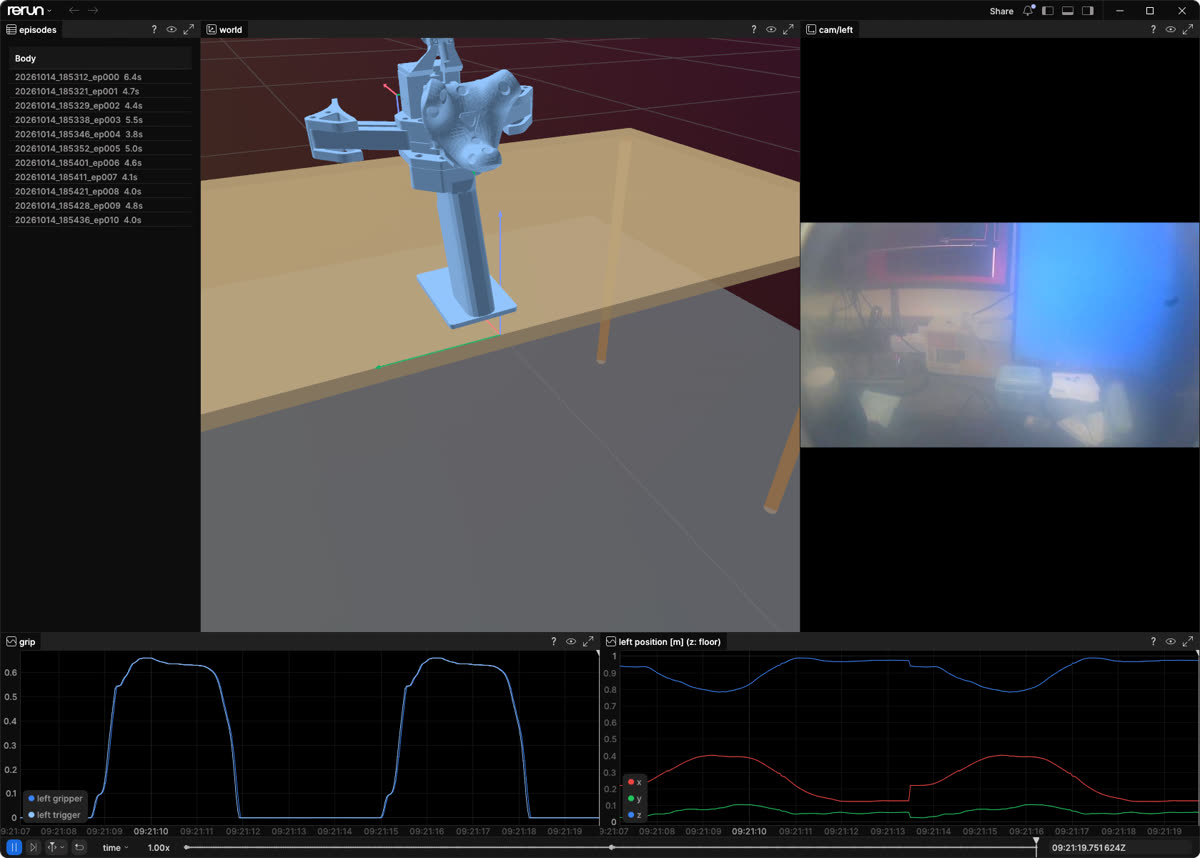
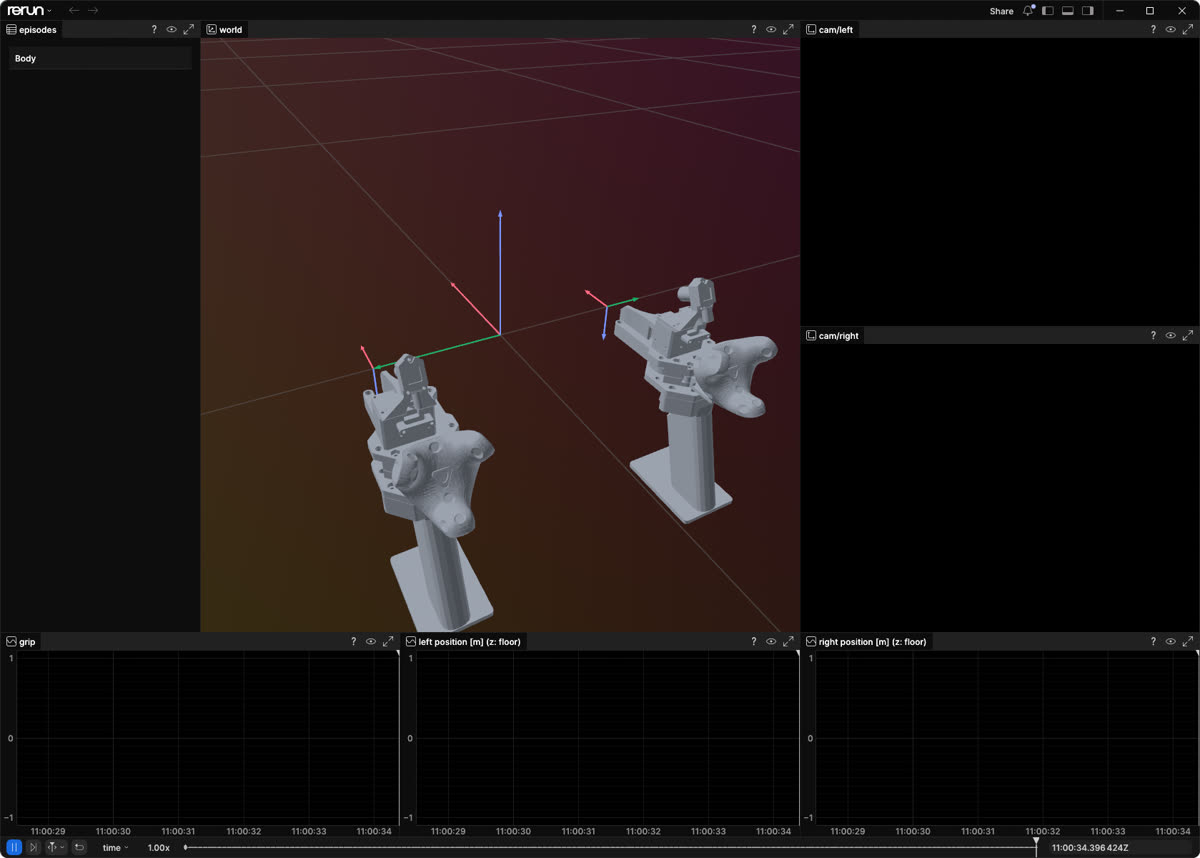
README: empty Rerun screenshot, status line hints, discard step in collection

diff --git a/README.md b/README.md
@@ -106,7 +106,7 @@ python3 collect.py
 
 ![Rerun 창](docs/rerun.jpg)
 
-1. 상태 줄에 빨간 경고 없음 (tracker·gripper·cam·button)
+1. 터미널에 빨간 글자 없음 (`tracker lost`, `grip --`, `cam … lost`, `button … lost` 등. 노란 `no origin`은 원점 설정 전이라 정상)
 2. 버튼 빠르게 2번(또는 키보드 `o`) → 원점 설정 (아래 그림) → 3D 화면에 테이블이 나오고 그리퍼가 실제와 같이 움직임
 3. 트리거를 당기면 그리퍼가 따라 닫힘
 4. 카메라 좌우 확인
@@ -132,17 +132,18 @@ python3 collect.py
 umi
 python3 collect.py --data cup         # data/cup에 저장
 ```
-1. 원점 잡기\
-   그리퍼를 테이블 모서리에 세움 (5번 그림) → 버튼 빠르게 2번 누르기(또는 키보드 `o`) → 1초 가만히 → "origin set" 음성.\
-   세션 시작 때 한 번 (원점 없이 녹화한 에피소드는 변환에서 빠짐).
+1. 원점 설정 (세션 시작 때 한 번. 원점 없이 녹화한 에피소드는 변환에서 빠짐)\
+   그리퍼를 테이블 모서리에 세움 (5번 그림) → 버튼 빠르게 2번 누르기(또는 키보드 `o`) → 1초 가만히 → "origin set" 음성.
 2. 녹화 시작하기\
    버튼 1번 누르기(또는 키보드 `space`) → "start" 음성 → 작업 시작.
 3. 녹화 끝내기\
-   작업 끝 → 버튼 1번 누르기(또는 키보드 `space`) → "stop" 음성.\
-   다음 에피소드는 2번부터.
+   작업 끝 → 버튼 1번 누르기(또는 키보드 `space`) → "stop" 음성.
+4. 잘못 녹화했으면 삭제 (되돌릴 수 없음)\
+   버튼 빠르게 3번 누르기(또는 키보드 `d`) → "discard" 음성. 녹화 중이면 지금 에피소드, 아니면 직전 에피소드 하나만 삭제.
+5. 다음 에피소드는 2번부터 반복.
 
 문제가 생기면:
-- "tracking changed, set origin again" 음성 → 원점 다시 (녹화 중이었으면 "discard": 그 에피소드 버림). SteamVR을 켜고 5분쯤 뒤에 원점을 잡으면 덜 생김.
+- "tracking changed, set origin again" 음성(SteamVR이 자기 좌표계를 바꿨다는 알림) → 원점 다시 설정(녹화 중이었으면 "discard": 그 에피소드 버림).
 - 카메라가 빠짐 → collect 재실행 (원점 유지).
 
 ## 7. 데이터셋 변환
